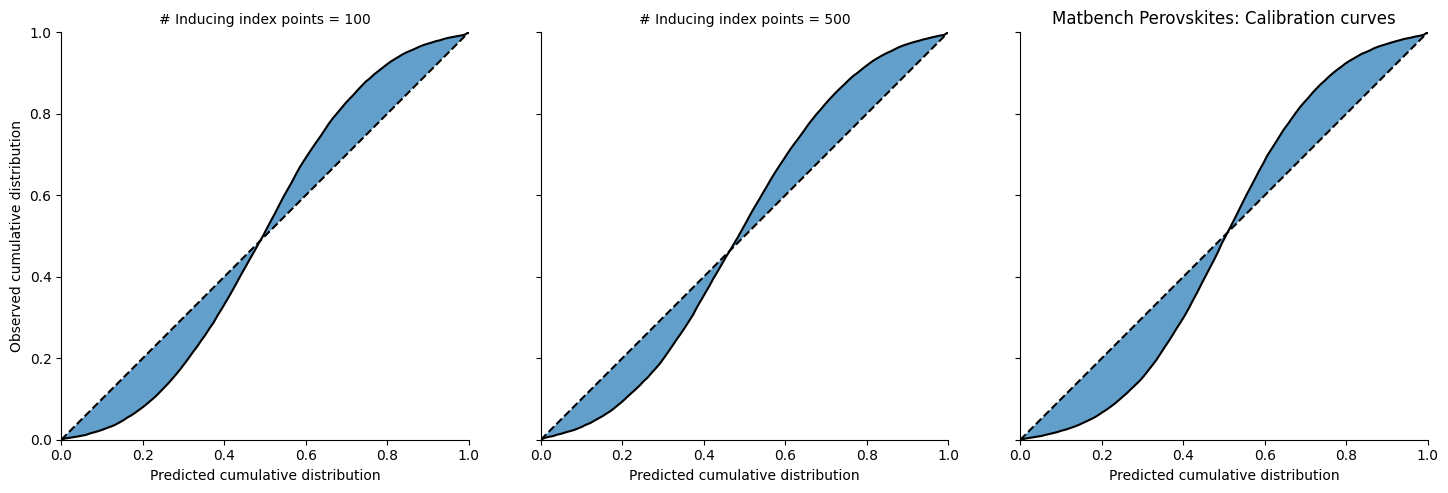
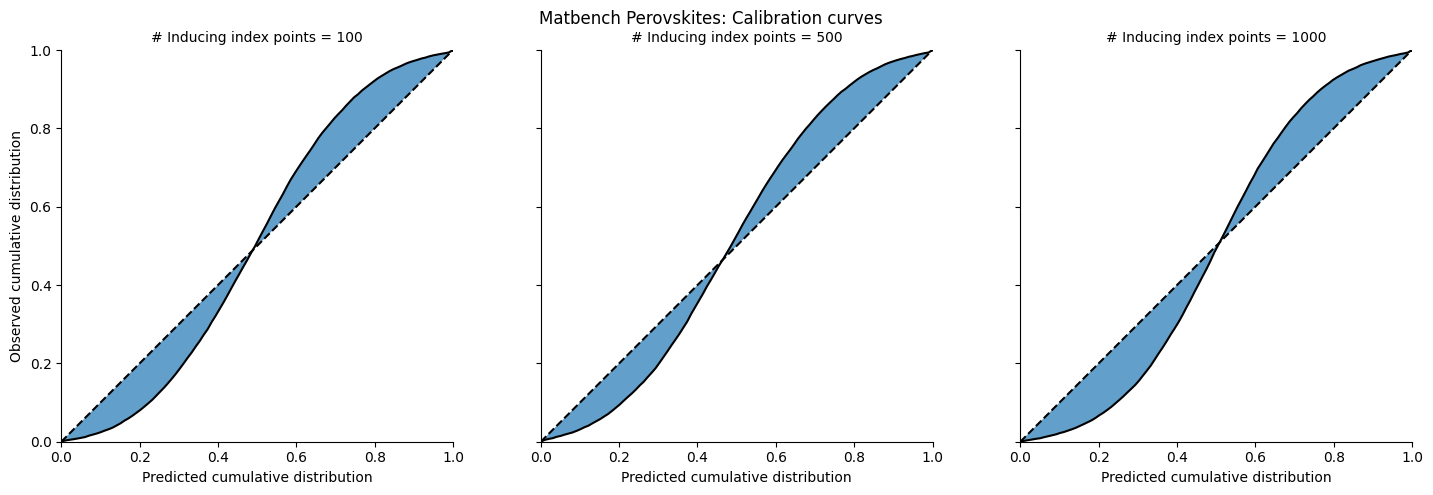
Finalise benchmarks info JOSS Review #19

diff --git a/benchmarking/visualise.py b/benchmarking/visualise.py
@@ -85,7 +85,8 @@ def parity_plot(
     g.set(xlim=Y_LIMS, ylim=Y_LIMS, aspect="equal")
     g.set_titles(col_template="{col_name} points")
     if title:
-        plt.title(title)
+        g.fig.subplots_adjust(top=0.9)
+        g.fig.suptitle(title)
     plt.savefig(
         fname,
         # transparent=True,
@@ -146,7 +147,8 @@ def plot_calibration(prob_df: pd.DataFrame, fname: str, title: str):
             # color=FILL_COLOUR,
         )
     if title:
-        plt.title(title)
+        g.fig.subplots_adjust(top=0.9)
+        g.fig.suptitle(title)
     plt.savefig(
         fname,
         # transparent=True,

diff --git a/benchmarking/matbench/results/README.md b/benchmarking/matbench/results/README.md
@@ -51,9 +51,19 @@ residuals align with the predicted distributions. For a well calibrated model,
 5% of residuals should lie below the 95% confidence interval and 5% above it. By
 plotting the normalized cumulative distribution of the probability percentile in
 which each residual lies, we can visually inspect how over-/underconfident a
-model is.
+model is. See also this [paper](https://doi.org/10.1088/2632-2153/ab7e1a).
 
 To produce the calibration curves and parity plots here, the predictions for
 every model on their respective test subset were concatenated. In this way,
 there was exactly one prediction for every point in the dataset. The residual of
 each prediction contributed to the cumulative distribution.
+
+### Perovskites calibration
+
+![Perovskites probabilistic parity plots](perovskites-parity.png)
+![Perovskites calibration curves](perovskites-calibration.png)
+
+### Phonons calibration
+
+![Phonons probabilistic parity plots](phonons-parity.png)
+![Phonons calibration curves](phonons-calibration.png)
